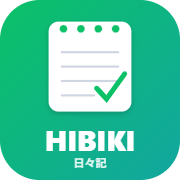
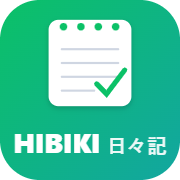
ロゴの組み方 B（HIBIKI 日々記 を1行・同じ下線）をアイコン・ログイン見出し・起動画面・タブ名に統一／旧アプリ向けの案内帯を新アプリから除去

diff --git a/index.html b/index.html
@@ -1,6 +1,6 @@
 <meta charset="utf-8">
 <meta name="viewport" content="width=device-width, initial-scale=1, maximum-scale=1, user-scalable=no, viewport-fit=cover">
-<title>HIBIKI ヒビキ（日々記）</title>
+<title>HIBIKI 日々記</title>
 <link rel="manifest" href="manifest.webmanifest">
 <meta name="theme-color" content="#0bc167">
 <meta name="apple-mobile-web-app-capable" content="yes">
@@ -197,6 +197,10 @@
   .hour.wr .bed.warn{background:#fff3c9;color:#a8790a}
   .hour.wr .bed.hot,.hour.wr .bed.over{background:#ffe9ec;color:#e0405a}
   .sgoal{display:flex;gap:6px;justify-content:center;flex-wrap:wrap;margin:6px 0 8px}
+  /* HIBIKI 日々記 のロゴの組み方（本人選択 B・2026-10-03）：1行・同じ下線（ベースライン）。段差を作らない */
+  .hb-logo{display:inline-flex;align-items:baseline;gap:.42em;line-height:1;white-space:nowrap}
+  .hb-logo b{font-weight:800;letter-spacing:.06em;font-size:1em}
+  .hb-logo i{font-style:normal;font-weight:800;font-size:.78em;letter-spacing:.08em;opacity:.92}
   /* 📚 ルーティン */
   .rt-sum{display:flex;gap:8px;margin:4px 0 6px}
   .rt-sum>div{flex:1;background:var(--card);border-radius:16px;padding:10px 14px;box-shadow:0 4px 14px rgba(30,40,70,.06)}
@@ -1079,9 +1083,9 @@
   .ovl.open~.toast{bottom:auto;top:calc(48px + env(safe-area-inset-top,0px))}   /* シートを開いている間は上に出す＝書きかけの文字を隠さない */
 </style>
 
-<div id="bootmsg" style="position:fixed;inset:0;z-index:200;display:flex;flex-direction:column;align-items:center;justify-content:center;gap:10px;padding:24px;background:#faf9f5;color:#6a7080;font:800 15px -apple-system,BlinkMacSystemFont,sans-serif;text-align:center"><div style="font-size:34px">📔</div><div id="bootmsgT">読み込み中…</div><div id="bootmsgS" style="font-size:12px;color:#9aa3b5;font-weight:700"></div></div>
+<div id="bootmsg" style="position:fixed;inset:0;z-index:200;display:flex;flex-direction:column;align-items:center;justify-content:center;gap:10px;padding:24px;background:#faf9f5;color:#6a7080;font:800 15px -apple-system,BlinkMacSystemFont,sans-serif;text-align:center"><div style="font-size:34px">📔</div><div class="hb-logo" style="font-size:24px;color:#0a9a54"><b>HIBIKI</b><i>日々記</i></div><div id="bootmsgT">読み込み中…</div><div id="bootmsgS" style="font-size:12px;color:#9aa3b5;font-weight:700"></div></div>
 <div class="app" id="app">
-<a href="https://yuai202211.github.io/hibiki/" target="_blank" rel="noopener" id="movedBar" style="display:flex;align-items:center;justify-content:center;gap:8px;padding:10px 12px;background:linear-gradient(135deg,#0bc167,#12a6a0);color:#fff;font-weight:800;font-size:13.5px;text-decoration:none;letter-spacing:.02em">📔 新しい場所 <b>HIBIKI（日々記）</b> はこちら →<span style="font-weight:700;opacity:.9;font-size:11.5px">（今日からはそちらで記録）</span></a>
+
 
   <div class="top">
     <div class="datebar">
@@ -2893,7 +2897,7 @@ function openSyncSheet(){
     row('grey','#c3c8d4','⚪ クラウド未接続','claude.aiにログインして、いつものURLから開くと繋がる')+
     '<button class="savebtn" id="syncNow">☁ いまクラウドに保存（画面が読み直される）</button>'+
     '<button class="bkbtn" id="rescueNow">🛟 過去バージョンから救出を再実行</button>'+
-    '<div class="sh-note" style="text-align:left;word-break:break-all">HIBIKI（c0.4）：'+
+    '<div class="sh-note" style="text-align:left;word-break:break-all">HIBIKI（c0.5）：'+
       '版庫 '+(function(){try{return state.vprobe?((state.vprobe.ok?'OK':'NG')+'('+state.vprobe.note+')'):'未検証';}catch(e){return '?';}})()+'<br>'+
       '起動 '+esc(BOOTLOG)+'<br>'+
       '保存エラー '+esc(PUBERR||'なし')+(permFail?'〔自動送信停止中。☁で再開／容量超過なら写真整理が必要〕':'')+(VERSFAIL?'〔版台帳の記録失敗〕':'')+'<br>'+
@@ -6155,7 +6159,7 @@ phUrl=function(id){
 const CL_EMAIL='hibiki-email',CL_AUTO='hibiki-autologin',CL_PWDAY='hibiki-pwday';
 const clGet=(k,d)=>{try{const v=localStorage.getItem(k);return v==null?d:v;}catch(e){return d;}};
 const clSet=(k,v)=>{try{if(v==null)localStorage.removeItem(k);else localStorage.setItem(k,String(v));}catch(e){}};
-const CL_APPVER="c0.4";   /* アプリの版（build.js が入れる）。版が変わった最初の起動でもパスワードを聞く（本人の希望 2026-10-03「更新した時は再ログインでもいい」） */
+const CL_APPVER="c0.5";   /* アプリの版（build.js が入れる）。版が変わった最初の起動でもパスワードを聞く（本人の希望 2026-10-03「更新した時は再ログインでもいい」） */
 function clDailyDue(){return cloudLoggedIn()&&clGet(CL_AUTO,'0')!=='1'&&clGet(CL_PWDAY,'')!==todayStr();}
 function openLoginSheet(opt){
   opt=opt||{};
@@ -6170,7 +6174,7 @@ function openLoginSheet(opt){
       '<label style="display:flex;align-items:center;gap:8px;margin:8px 2px 0;font-size:12.5px;font-weight:700;color:#6a7080"><input type="checkbox" id="clAuto" '+(clGet(CL_AUTO,'0')==='1'?'checked':'')+' style="width:18px;height:18px">自動ログイン（1日1回のパスワード入力も省く）</label>'+
       '<div class="sh-note" id="clMsg" style="color:#e0405a;display:none"></div>'+
       '<div class="sh-btns"><button class="savebtn" id="clIn">'+title+'</button></div>';
-  $('sheet').innerHTML='<div class="grab"></div><div class="sh-time"><span>☁ HIBIKI クラウド</span></div>'+
+  $('sheet').innerHTML='<div class="grab"></div><div class="sh-time" style="justify-content:center"><span><span class="hb-logo"><b>HIBIKI</b><i>日々記</i></span></span></div>'+
     (!cloudConfigured()?'<div class="sh-note">このアプリはまだクラウドの設定が入っていない（配信前の状態）。記録は端末に保存されている</div>':
     (daily?(loginForm('ログイン','🔑 <b>今日のパスワード確認</b>（忘れないように1日1回）。記録はこのまま続けられる')+
             '<div class="sh-note"><button class="chip" id="clLater" style="background:#f1f3f8;color:#8a90a0">あとで</button></div>'):

diff --git a/dev/cloud-layer.js b/dev/cloud-layer.js
@@ -256,7 +256,7 @@ function openLoginSheet(opt){
       '<label style="display:flex;align-items:center;gap:8px;margin:8px 2px 0;font-size:12.5px;font-weight:700;color:#6a7080"><input type="checkbox" id="clAuto" '+(clGet(CL_AUTO,'0')==='1'?'checked':'')+' style="width:18px;height:18px">自動ログイン（1日1回のパスワード入力も省く）</label>'+
       '<div class="sh-note" id="clMsg" style="color:#e0405a;display:none"></div>'+
       '<div class="sh-btns"><button class="savebtn" id="clIn">'+title+'</button></div>';
-  $('sheet').innerHTML='<div class="grab"></div><div class="sh-time"><span>☁ HIBIKI クラウド</span></div>'+
+  $('sheet').innerHTML='<div class="grab"></div><div class="sh-time" style="justify-content:center"><span><span class="hb-logo"><b>HIBIKI</b><i>日々記</i></span></span></div>'+
     (!cloudConfigured()?'<div class="sh-note">このアプリはまだクラウドの設定が入っていない（配信前の状態）。記録は端末に保存されている</div>':
     (daily?(loginForm('ログイン','🔑 <b>今日のパスワード確認</b>（忘れないように1日1回）。記録はこのまま続けられる')+
             '<div class="sh-note"><button class="chip" id="clLater" style="background:#f1f3f8;color:#8a90a0">あとで</button></div>'):

diff --git a/sw.js b/sw.js
@@ -1,7 +1,7 @@
 /* HIBIKI Service Worker：オフラインでも開けるようにする。
    index.html は「まずネット、だめならキャッシュ」（新しい版をすぐ拾う）。アイコン類は「キャッシュ優先」。
    データ（Supabase の API）と写真はここでは触らない（アプリが自分で端末に控える）。 */
-const VER='hibiki-c0.4';
+const VER='hibiki-c0.5';
 const CORE=['./','./index.html','./manifest.webmanifest','./icon-192.png','./icon-512.png','./icon-512-maskable.png','./apple-touch-icon.png'];
 self.addEventListener('install',e=>{
   e.waitUntil(caches.open(VER).then(c=>c.addAll(CORE).catch(()=>{})).then(()=>self.skipWaiting()));
